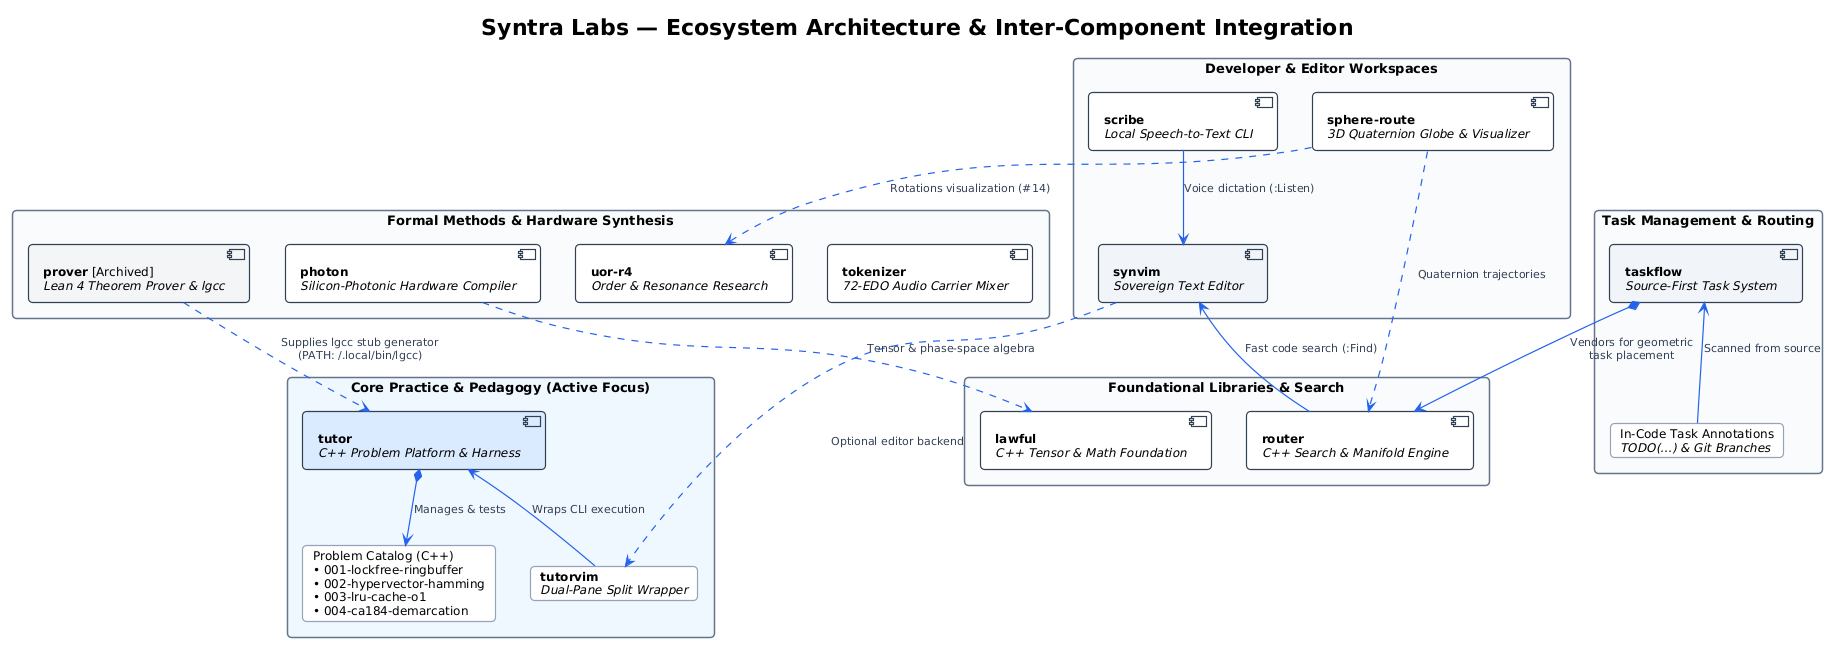
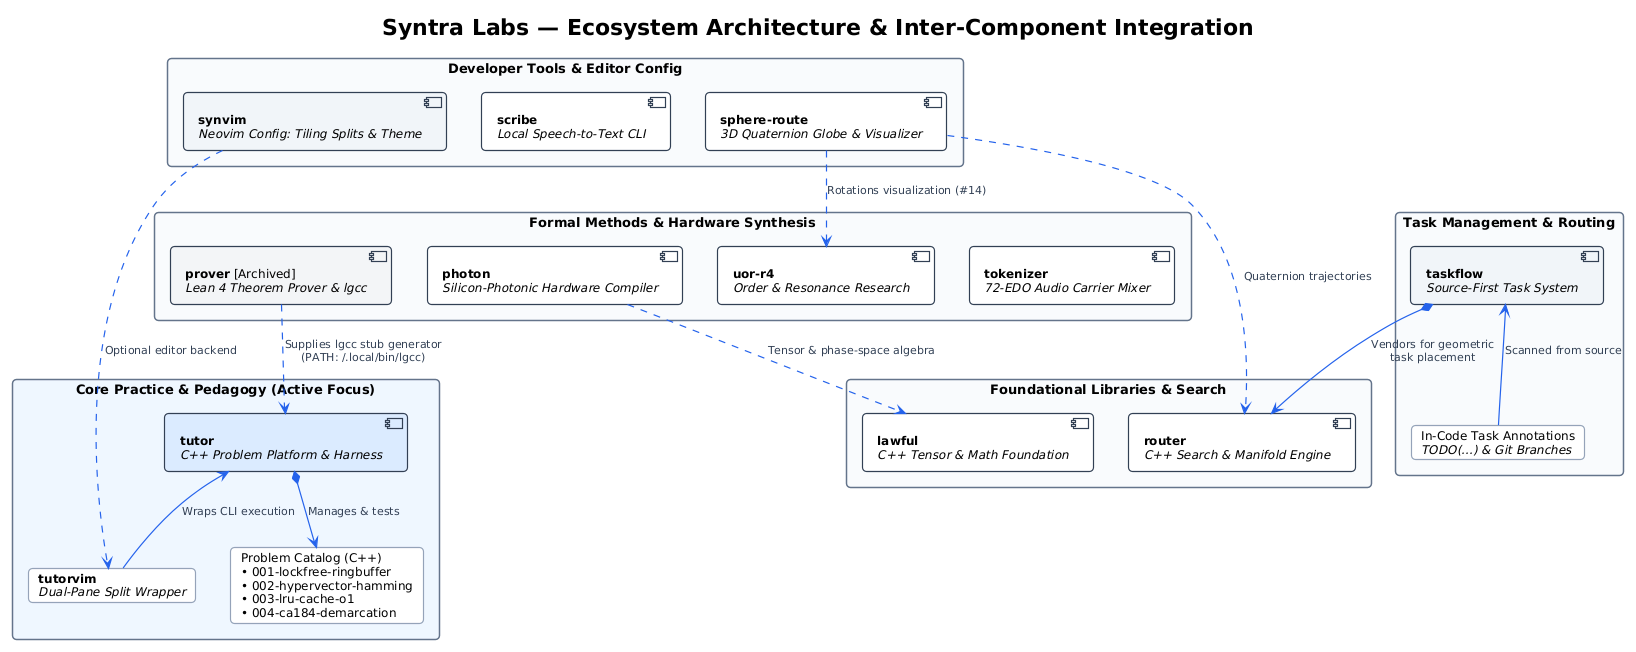
docs: accurately describe synvim as neovim tiling/theme config without voice or search

diff --git a/.github/profile/README.md b/.github/profile/README.md
@@ -48,7 +48,7 @@ The following architectural diagram models the end-to-end component layout and d
 | **[`tutor`](https://github.com/Syntra-Labs/tutor)** | Interactive systems programming problem platform and test harness (C++) | Core Platform |
 | **[`router`](https://github.com/Syntra-Labs/router)** | Fast C++ code search library and geometric vector manifold engine | Core Library |
 | **[`scribe`](https://github.com/Syntra-Labs/scribe)** | Fast local speech-to-text CLI for microphone recording | Tool |
-| **[`synvim`](https://github.com/Syntra-Labs/synvim)** | Minimalist Neovim editor with voice input and fast search | Editor |
+| **[`synvim`](https://github.com/Syntra-Labs/synvim)** | Minimalist Neovim configuration with monochrome colorscheme and tiling terminal splits | Editor Config |
 | **[`taskflow`](https://github.com/Syntra-Labs/taskflow)** | Source-first task manager tracking dependencies directly in code comments | Tool |
 | **[`photon`](https://github.com/Syntra-Labs/photon)** | Safety-verifying compiler bridging continuous-variable logic with silicon-photonic hardware | Hardware Compiler |
 | **[`lawful`](https://github.com/Syntra-Labs/lawful)** | Fast C++ tensor algebra and mathematical foundation library | Library |

diff --git a/README.md b/README.md
@@ -48,7 +48,7 @@ The following architectural diagram models the end-to-end component layout and d
 | **[`tutor`](https://github.com/Syntra-Labs/tutor)** | Interactive systems programming problem platform and test harness (C++) | Core Platform |
 | **[`router`](https://github.com/Syntra-Labs/router)** | Fast C++ code search library and geometric vector manifold engine | Core Library |
 | **[`scribe`](https://github.com/Syntra-Labs/scribe)** | Fast local speech-to-text CLI for microphone recording | Tool |
-| **[`synvim`](https://github.com/Syntra-Labs/synvim)** | Minimalist Neovim editor with voice input and fast search | Editor |
+| **[`synvim`](https://github.com/Syntra-Labs/synvim)** | Minimalist Neovim configuration with monochrome colorscheme and tiling terminal splits | Editor Config |
 | **[`taskflow`](https://github.com/Syntra-Labs/taskflow)** | Source-first task manager tracking dependencies directly in code comments | Tool |
 | **[`photon`](https://github.com/Syntra-Labs/photon)** | Safety-verifying compiler bridging continuous-variable logic with silicon-photonic hardware | Hardware Compiler |
 | **[`lawful`](https://github.com/Syntra-Labs/lawful)** | Fast C++ tensor algebra and mathematical foundation library | Library |

diff --git a/profile/README.md b/profile/README.md
@@ -48,7 +48,7 @@ The following architectural diagram models the end-to-end component layout and d
 | **[`tutor`](https://github.com/Syntra-Labs/tutor)** | Interactive systems programming problem platform and test harness (C++) | Core Platform |
 | **[`router`](https://github.com/Syntra-Labs/router)** | Fast C++ code search library and geometric vector manifold engine | Core Library |
 | **[`scribe`](https://github.com/Syntra-Labs/scribe)** | Fast local speech-to-text CLI for microphone recording | Tool |
-| **[`synvim`](https://github.com/Syntra-Labs/synvim)** | Minimalist Neovim editor with voice input and fast search | Editor |
+| **[`synvim`](https://github.com/Syntra-Labs/synvim)** | Minimalist Neovim configuration with monochrome colorscheme and tiling terminal splits | Editor Config |
 | **[`taskflow`](https://github.com/Syntra-Labs/taskflow)** | Source-first task manager tracking dependencies directly in code comments | Tool |
 | **[`photon`](https://github.com/Syntra-Labs/photon)** | Safety-verifying compiler bridging continuous-variable logic with silicon-photonic hardware | Hardware Compiler |
 | **[`lawful`](https://github.com/Syntra-Labs/lawful)** | Fast C++ tensor algebra and mathematical foundation library | Library |
